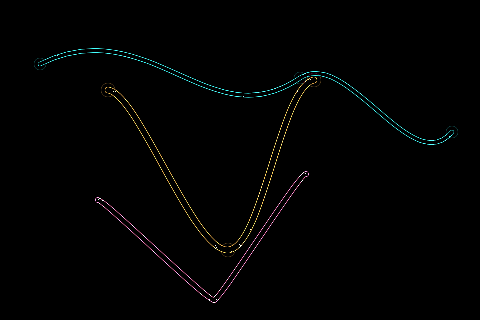
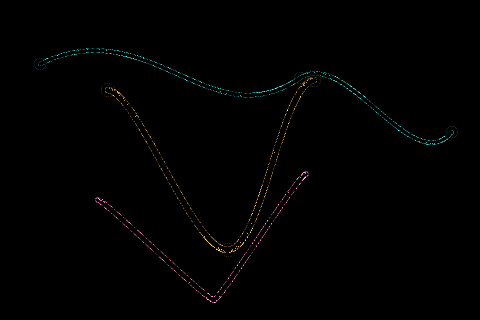
improving antialiasing example

diff --git a/apps/deno-notebooks/tools/p5gpu.ts b/apps/deno-notebooks/tools/p5gpu.ts
@@ -6,6 +6,7 @@ export interface P5GPUOptions {
   width: number;
   height: number;
   format?: GPUTextureFormat;
+  sampleCount?: number;
 }
 
 type Vec2 = [number, number];
@@ -378,7 +379,7 @@ export class P5GPU {
   private _bindGroupLayout: GPUBindGroupLayout;
   private _bindGroup: GPUBindGroup;
   private _pipelineLayout: GPUPipelineLayout;
-  private _pipelineCache = new Map<number, GPURenderPipeline>();
+  private _pipelineCache = new Map<string, GPURenderPipeline>();
 
   private _vertices: number[] = [];
   private _vertexCount = 0;
@@ -386,6 +387,8 @@ export class P5GPU {
 
   private _vertexBuffer: GPUBuffer | null = null;
   private _vertexBufferCapacityBytes = 0;
+  private _sampleCount = 1;
+  private _msaaColorTexture: GPUTexture | null = null;
 
   private _clearRequested = false;
   private _clearColor: ColorTuple = [0, 0, 0, 0];
@@ -401,6 +404,20 @@ export class P5GPU {
       format: this.format,
       usage: GPUTextureUsage.RENDER_ATTACHMENT | GPUTextureUsage.COPY_SRC | GPUTextureUsage.COPY_DST | GPUTextureUsage.TEXTURE_BINDING,
     });
+    this._sampleCount = Math.max(1, Math.floor(opts.sampleCount ?? 4));
+    if (this._sampleCount > 1) {
+      try {
+        this._msaaColorTexture = this.device.createTexture({
+          size: { width: this.width, height: this.height },
+          sampleCount: this._sampleCount,
+          format: this.format,
+          usage: GPUTextureUsage.RENDER_ATTACHMENT,
+        });
+      } catch (_) {
+        this._sampleCount = 1;
+        this._msaaColorTexture = null;
+      }
+    }
 
     this._state = createDefaultState();
     this._state.strokeColor = [0, 0, 0, 1];
@@ -443,18 +460,23 @@ export class P5GPU {
 
   endFrame(): GPUTexture {
     const encoder = this.device.createCommandEncoder();
-    const loadOp: GPULoadOp = (this._clearRequested || !this._hasRenderedFrame) ? "clear" : "load";
+    const useLoadOp = !this._clearRequested && this._hasRenderedFrame;
+    const loadOp: GPULoadOp = useLoadOp ? "load" : "clear";
+    const frameSampleCount = (!useLoadOp && this._msaaColorTexture && this._sampleCount > 1) ? this._sampleCount : 1;
     const clearColor: GPUColor = {
       r: this._clearColor[0],
       g: this._clearColor[1],
       b: this._clearColor[2],
       a: this._clearColor[3],
     };
+    const outputView = this.outputTexture.createView();
+    const msaaView = frameSampleCount > 1 ? this._msaaColorTexture!.createView() : null;
 
     const pass = encoder.beginRenderPass({
       colorAttachments: [
         {
-          view: this.outputTexture.createView(),
+          view: msaaView ?? outputView,
+          resolveTarget: msaaView ? outputView : undefined,
           loadOp,
           storeOp: "store",
           clearValue: clearColor,
@@ -472,7 +494,7 @@ export class P5GPU {
 
       for (const batch of this._batches) {
         if (batch.vertexCount <= 0) continue;
-        pass.setPipeline(this._getPipeline(batch.blendMode));
+        pass.setPipeline(this._getPipeline(batch.blendMode, frameSampleCount));
         pass.draw(batch.vertexCount, 1, batch.startVertex, 0);
       }
     }
@@ -486,6 +508,7 @@ export class P5GPU {
   dispose(): void {
     try { this._vertexBuffer?.destroy(); } catch (_) { /* ignore */ }
     try { this._uniformBuffer.destroy(); } catch (_) { /* ignore */ }
+    try { this._msaaColorTexture?.destroy(); } catch (_) { /* ignore */ }
     try { this.outputTexture.destroy(); } catch (_) { /* ignore */ }
   }
 
@@ -1686,8 +1709,9 @@ export class P5GPU {
     this._vertexBufferCapacityBytes = newSize;
   }
 
-  private _getPipeline(mode: number): GPURenderPipeline {
-    const existing = this._pipelineCache.get(mode);
+  private _getPipeline(mode: number, sampleCount: number): GPURenderPipeline {
+    const cacheKey = `${mode}:${sampleCount}`;
+    const existing = this._pipelineCache.get(cacheKey);
     if (existing) return existing;
 
     const pipeline = this.device.createRenderPipeline({
@@ -1721,11 +1745,11 @@ export class P5GPU {
         topology: "triangle-list",
       },
       multisample: {
-        count: 1,
+        count: sampleCount,
       },
     });
 
-    this._pipelineCache.set(mode, pipeline);
+    this._pipelineCache.set(cacheKey, pipeline);
     return pipeline;
   }
 }
